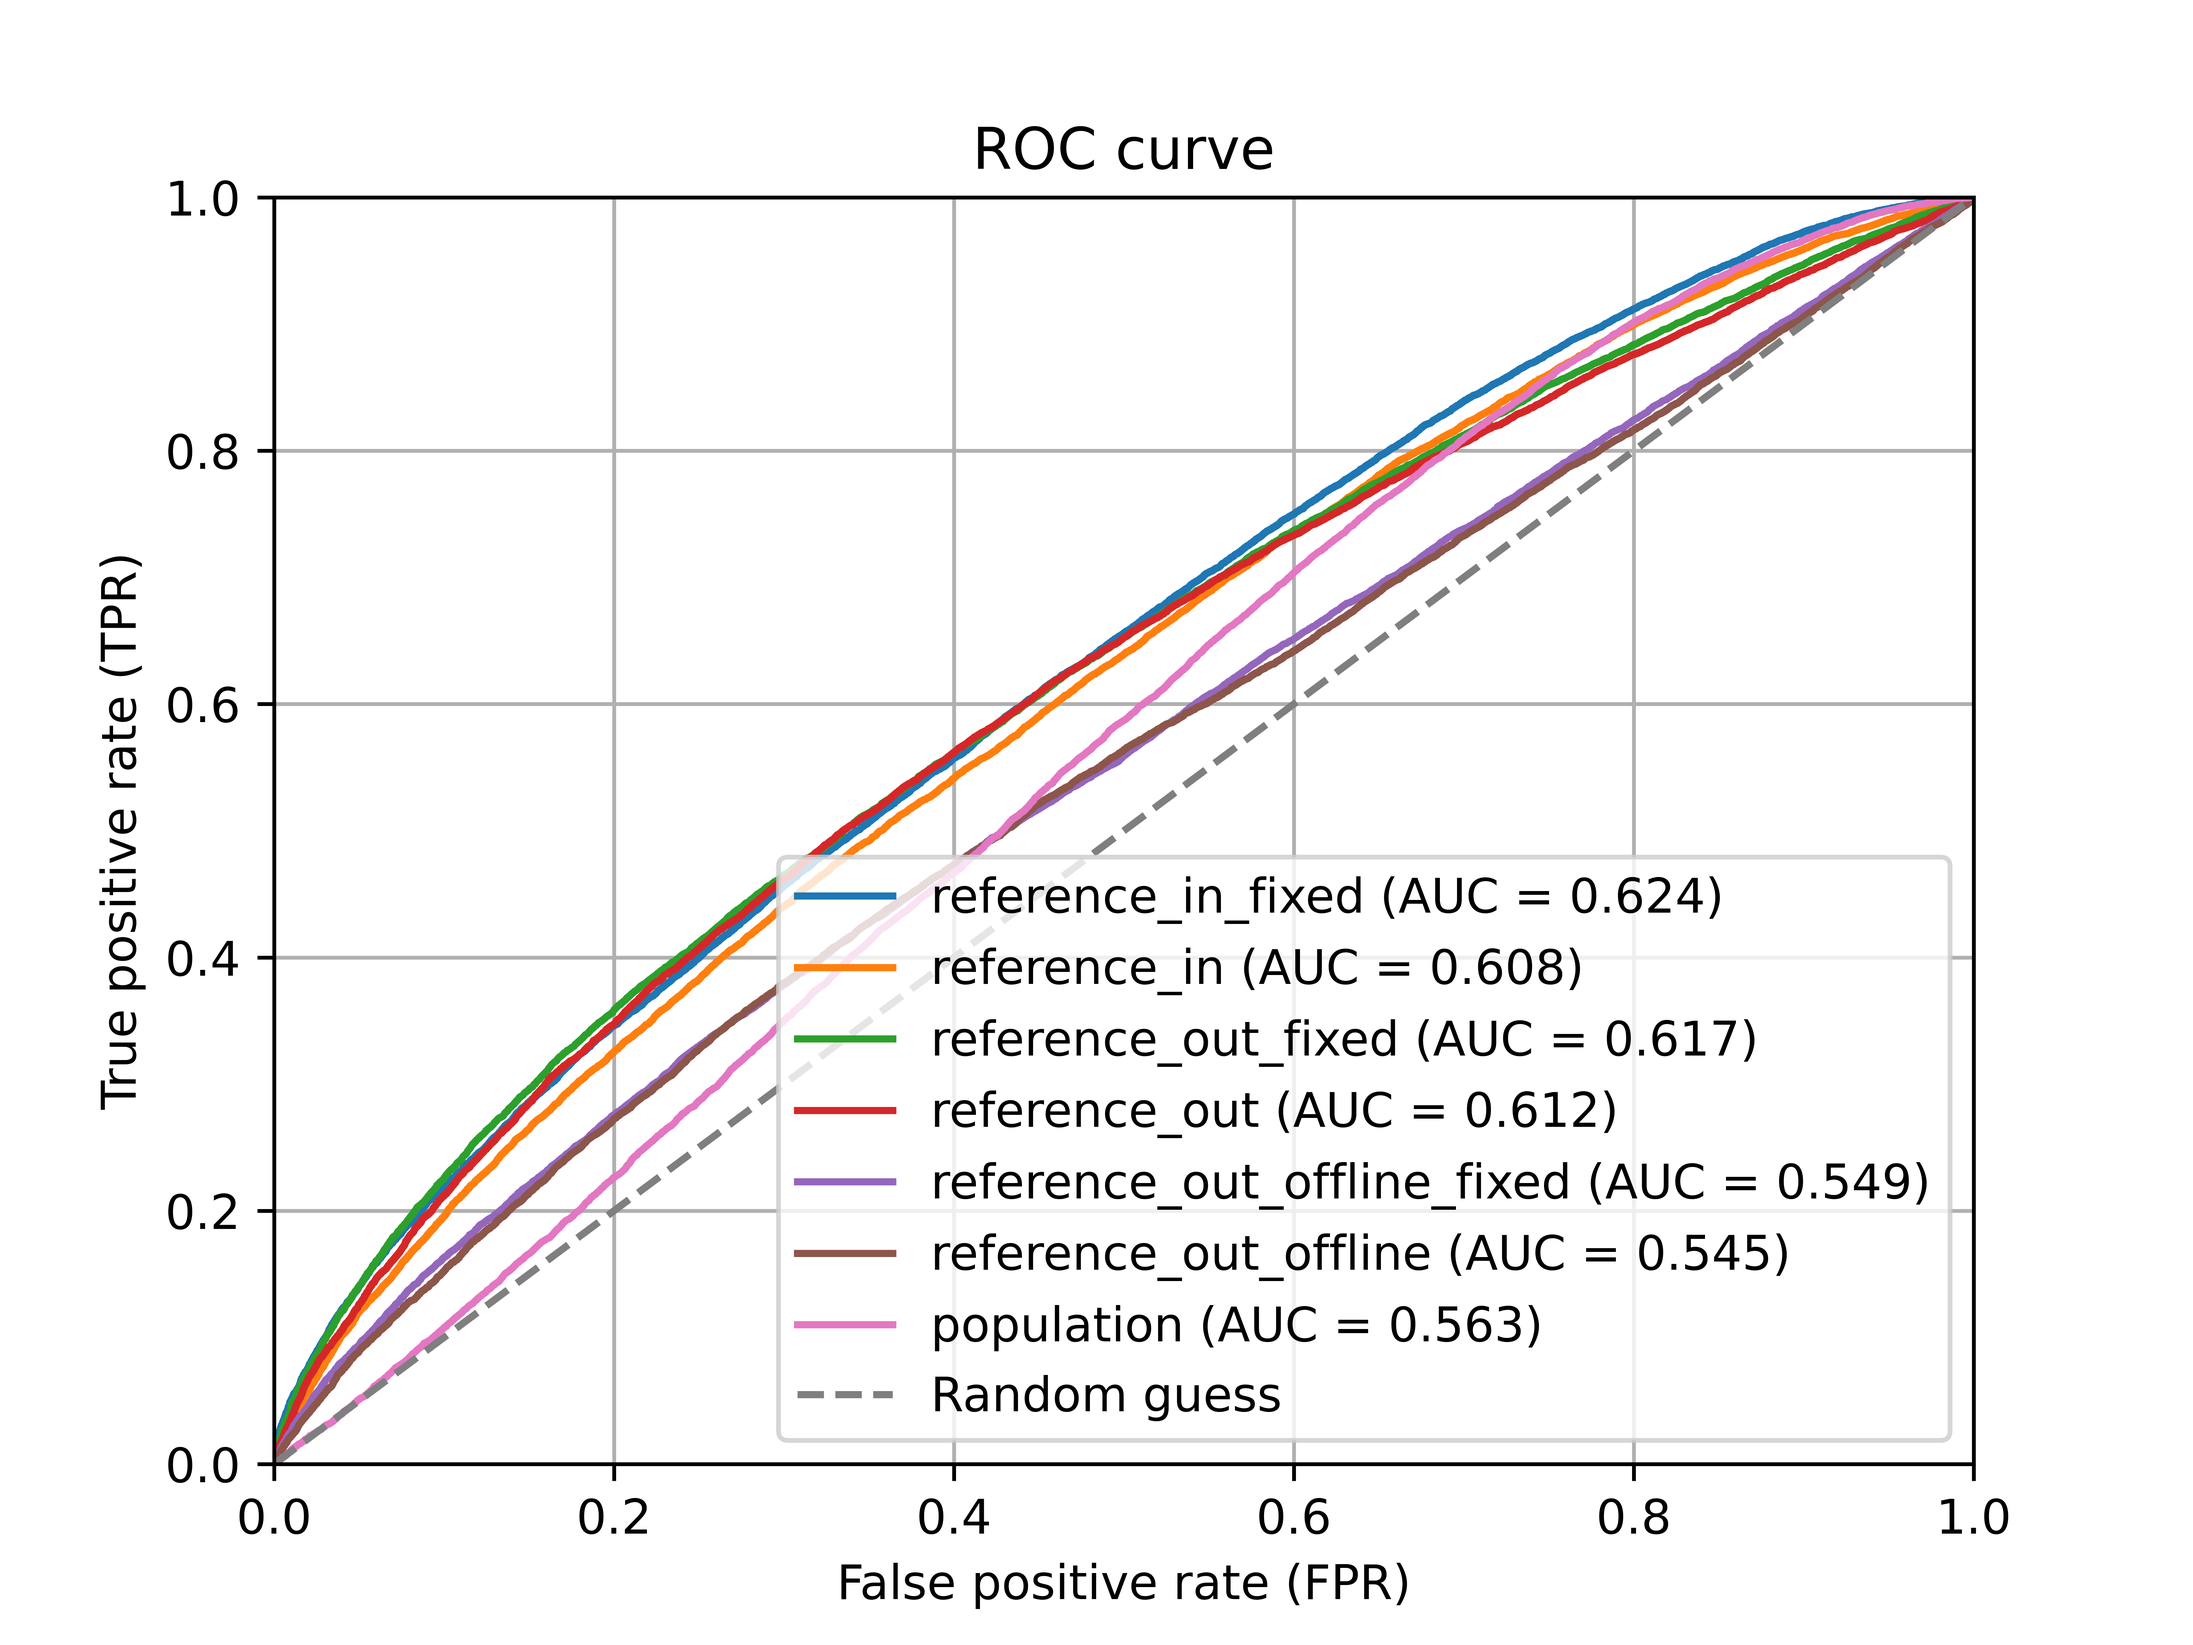
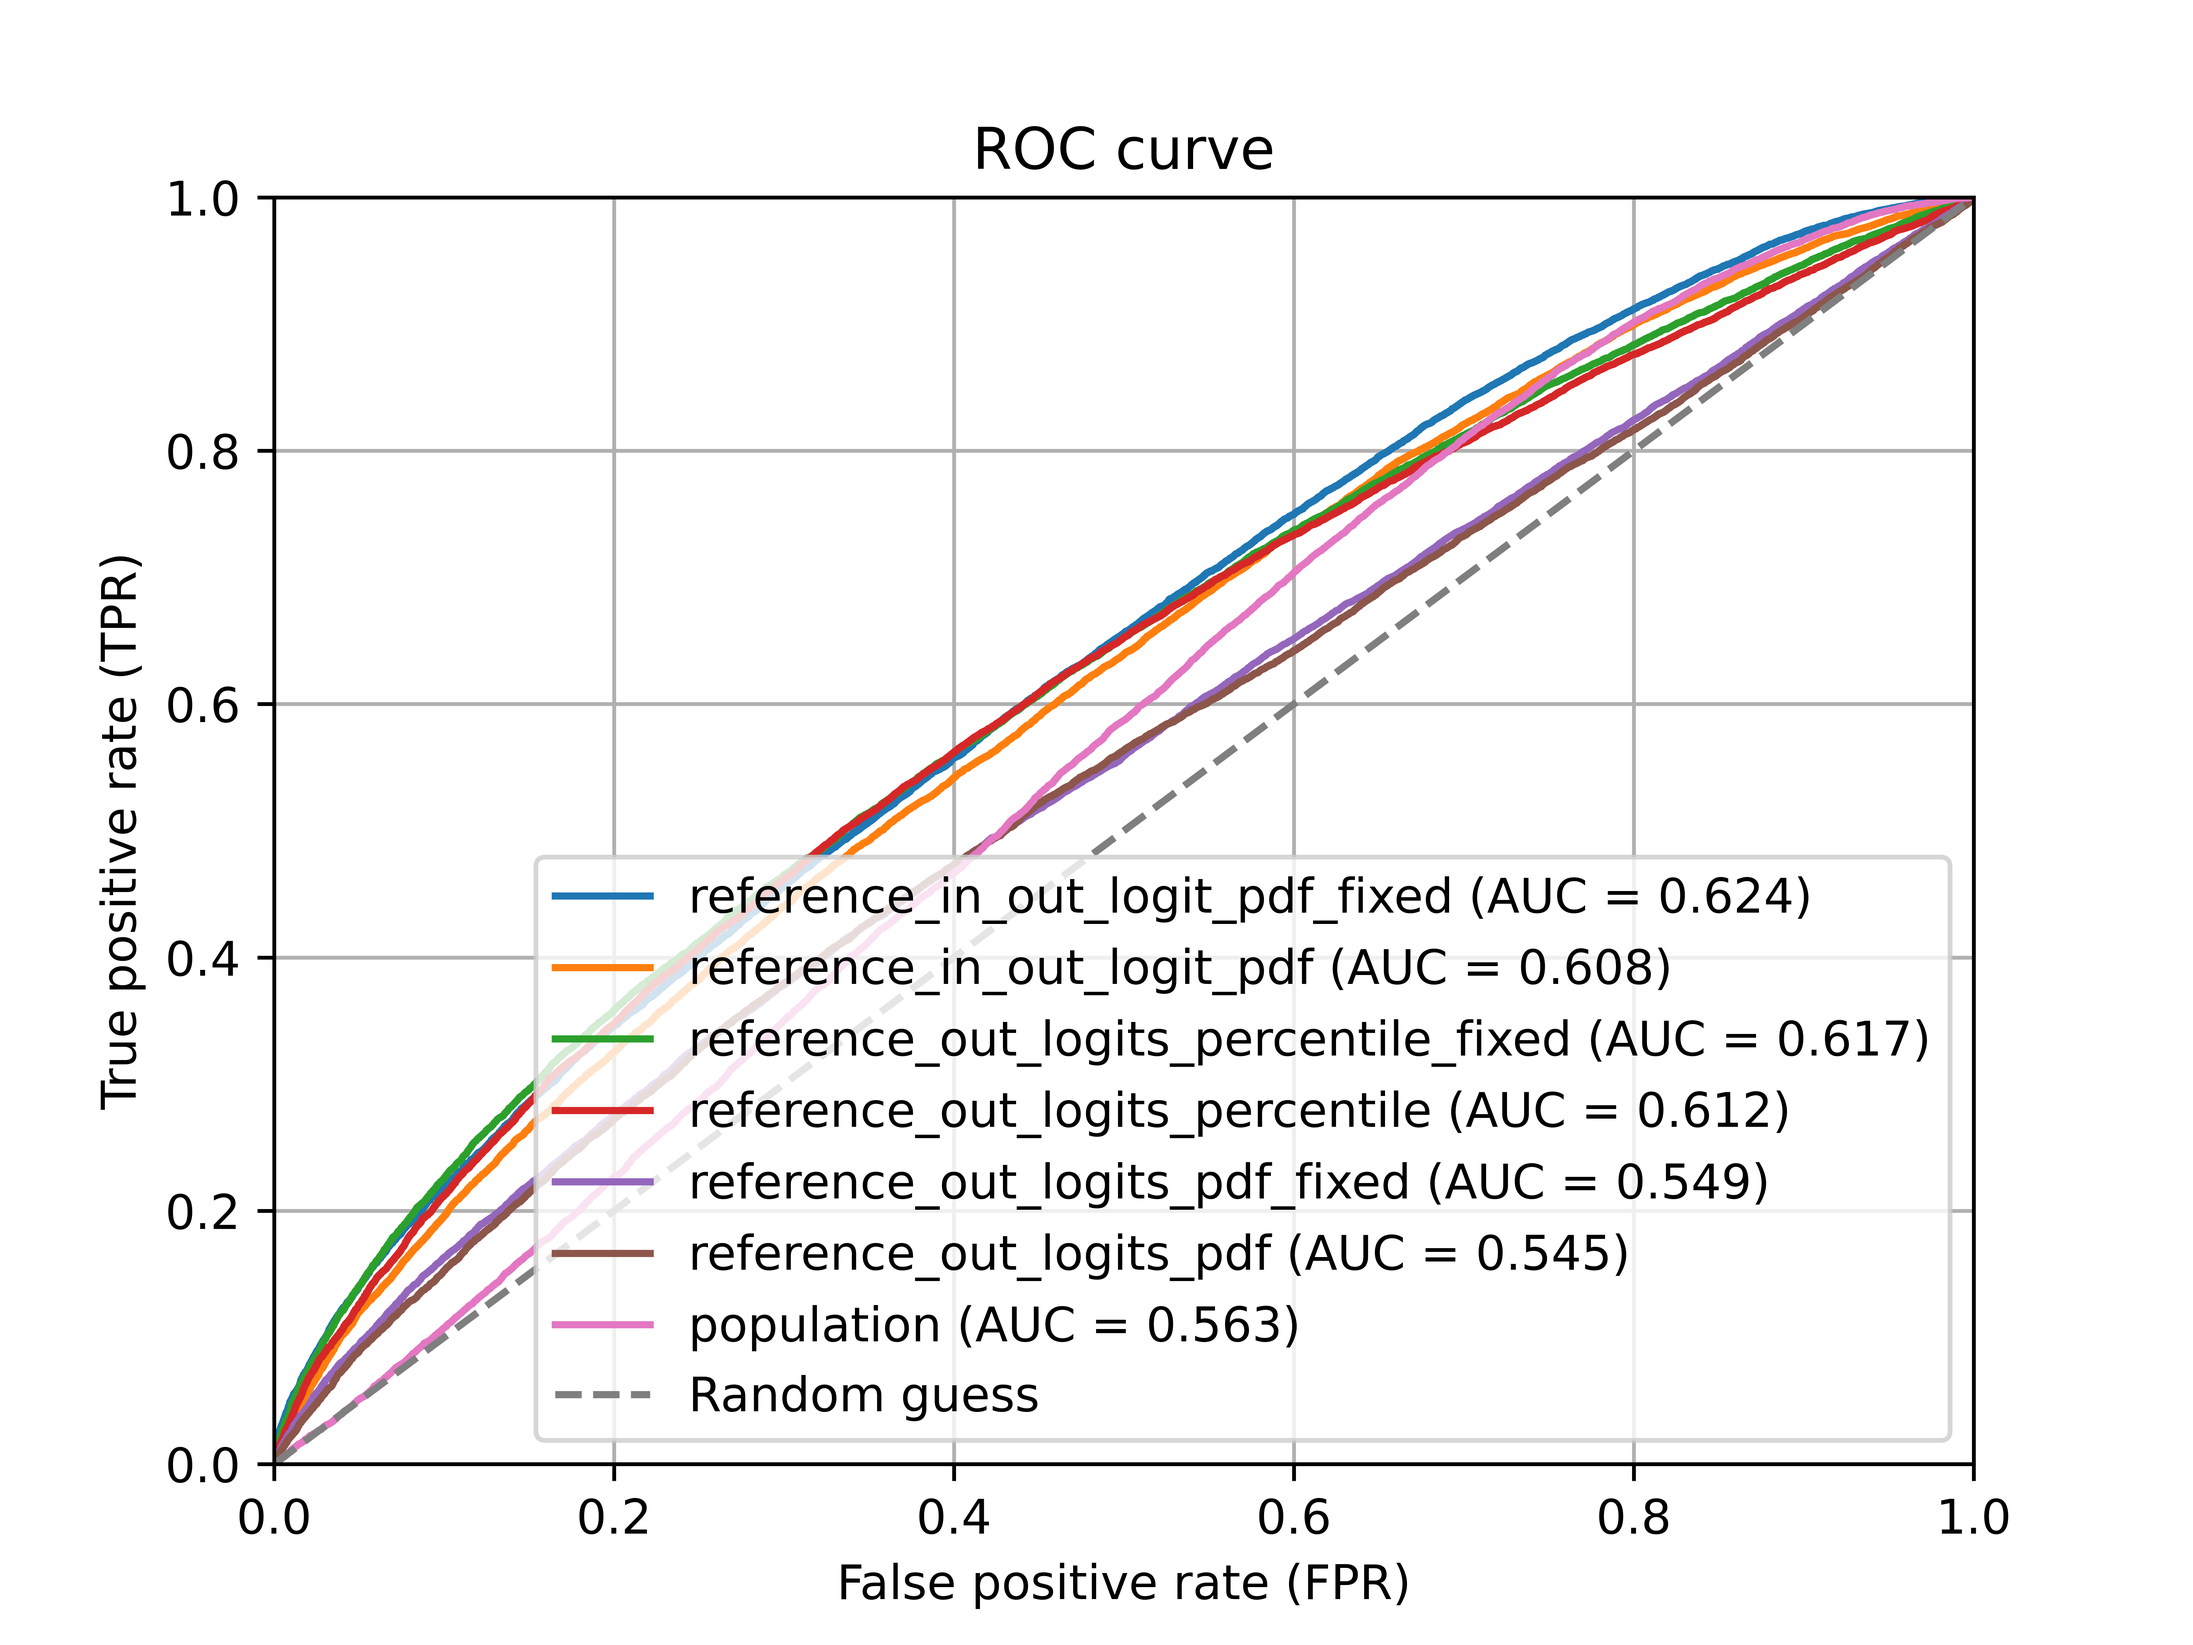
change name

Changed region(s): [[0.2188, 0.5, 0.875, 0.875], [0.25, 0.8438, 0.2812, 0.875]]

diff --git a/benchmark/README.md b/benchmark/README.md
@@ -6,26 +6,6 @@ This folder contains a script for running benchmark experiments with different m
 
 The target model is trained using 30% of the entire CIFAR10 dataset (referred to as "members") and tested with another 30% of the dataset (referred to as "non-members"). The remaining data is considered population data and will be used for population attacks.
 
-## Attack Methods
-
-Both Lira attack and reference attacks require training reference models. Here's how each attack method works:
-
-- `Lira Attack` (Carlini et al., 2022): The models are trained on a random subset of the target dataset, including both the training and testing sets. Each target data point (from member and non-member set) is included in half of the reference models (referred to as "IN models") and excluded from the other half (referred to as "OUT models").
-
-- `Population Attack` (Ye et al., 2022): Only use the population data and the target model (i.e., do not train any reference models)
-
-- `Reference Attacks` (Ye et al., 2022): Only the OUT models are used for the attack.
-
-In terms of metrics, we consider the rescaled logits for all attacks and fit a Gaussian distribution for the signals computed on the IN models and OUT models. Here's how the ROC is generated for each attack method:
-
-- `Lira Attack` (Carlini et al., 2022): The likelihood ratio between the IN model distribution and the OUT model distribution is computed and the attacker sweeps all possible thresholds to get the whole ROC.
-
-- `Population Attack` (Ye et al., 2022): The alpha-percentile of the signal distribution computed on the population data from the target model is used as the threshold for the attack. The attacker sweeps all possible thresholds to get the whole ROC.
-
-- `Reference Attacks` (Ye et al., 2022): The alpha-percentile of the OUT model distribution is used as the threshold for the attack. The attacker sweeps all possible thresholds to get the whole ROC.
-
-To learn more, please refer to the original papers [Ye et al., 2022](https://dl.acm.org/doi/abs/10.1145/3548606.3560675) and [Carlini et al., 2022](https://arxiv.org/pdf/2112.03570.pdf).
-
 ## Running the Script
 
 To obtain all the attack results under this setting, please run the following command (GPU needed. The default GPU id is 1.):
@@ -34,16 +14,17 @@ To obtain all the attack results under this setting, please run the following co
 python main.py --cf benchmark.yaml
 ```
 
-The results will be saved in the `benchmark` folder within the current directory. In this setting, we train 8 IN models and 8 OUT models, and 1 target model for producing this benchmark comparison. Our code will run 245 seconds on a Single NVIDIA TITAN RTX to get all results for all attacks, including the training target model and reference models.
+The results will be saved in the `benchmark` folder within the current directory. In this setting, we train 8 IN reference models and 8 OUT reference models, and 1 target model for producing this benchmark comparison.  Each target data point (from member and non-member set) is included in half of the reference models (referred to as "IN models") and excluded from the other half (referred to as "OUT models").
+Our code will run 245 seconds on a Single NVIDIA TITAN RTX to get all results for all attacks, including the training target model and reference models.
 
 ## Results
 In the following, we present the results for different variants of attacks:
-1. `reference_in_fixed`: This attack uses both the IN and OUT models to compute the likelihood ratio for each target data point. The standard deviation of the OUT signals is the same as the IN signals and is constant for all data points. This is from the online attack in the paper (Carlini et al., 2022).
-2. `reference_in`: This attack also utilizes both the IN and OUT models to compute the likelihood for each target data point. However, the standard deviation is computed individually for each data point. This is from the online attack in the paper (Carlini et al., 2022).
-3. `reference_out_fixed`: In this attack, only the OUT models are used to compute the signal and compare it with the alpha-percentile of the OUT signal distribution. The standard deviation of the OUT signals is constant for all data points. This is from the reference attack in the paper (Ye et al., 2022).
-4. `reference_out`: Similar to the previous attack, the OUT models are used to compute the signal and compare it with the alpha-percentile of the OUT signal distribution. However, the standard deviation is computed individually for each data point. This is from the reference attack in the paper (Ye et al., 2022).
-5. `reference_out_offline_fixed`: This attack employs the OUT models to compute the probability density function (PDF) of the target signal with respect to the OUT signal distribution. The standard deviation of the OUT signals remains constant for all data points. This is from the offline attack in the paper (Carlini et al., 2022).
-6. `reference_out_offline`: Similar to the previous attack, the OUT models are used to compute the PDF of the target signal with respect to the OUT signal distribution. However, the standard deviation is computed individually for each data point. This is from the offline attack in the paper (Carlini et al., 2022).
+1. `reference_in_out_logits_pdf_fixed`: This attack uses both the IN and OUT models to compute the likelihood ratio for each target data point. The standard deviation of the OUT signals is the same as the IN signals and is constant for all data points. This is from the online attack in the paper (Carlini et al., 2022).
+2. `reference_in_out_logits_pdf`: This attack also utilizes both the IN and OUT models to compute the likelihood for each target data point. However, the standard deviation is computed individually for each data point. This is from the online attack in the paper (Carlini et al., 2022).
+3. `reference_out_logits_percentile_fixed`: In this attack, only the OUT models are used to compute the signal and compare it with the alpha-percentile of the OUT signal distribution. The standard deviation of the OUT signals is constant for all data points. This is from the reference attack in the paper (Ye et al., 2022).
+4. `reference_out_logits_percentile`: Similar to the previous attack, the OUT models are used to compute the signal and compare it with the alpha-percentile of the OUT signal distribution. However, the standard deviation is computed individually for each data point. This is from the reference attack in the paper (Ye et al., 2022).
+5. `reference_out_logits_pdf_fixed`: This attack employs the OUT models to compute the probability density function (PDF) of the target signal with respect to the OUT signal distribution. The standard deviation of the OUT signals remains constant for all data points. This is from the offline attack in the paper (Carlini et al., 2022).
+6. `reference_out_logits_pdf`: Similar to the previous attack, the OUT models are used to compute the PDF of the target signal with respect to the OUT signal distribution. However, the standard deviation is computed individually for each data point. This is from the offline attack in the paper (Carlini et al., 2022).
 7. `population`: This attack utilizes the target model's performance on population data to construct the OUT signal distribution. Each target point's signal is then compared with the alpha-percentile of the OUT signal distribution. This is from the original population attack paper (Ye et al., 2022).
 
 <p align="center" width="100%">
